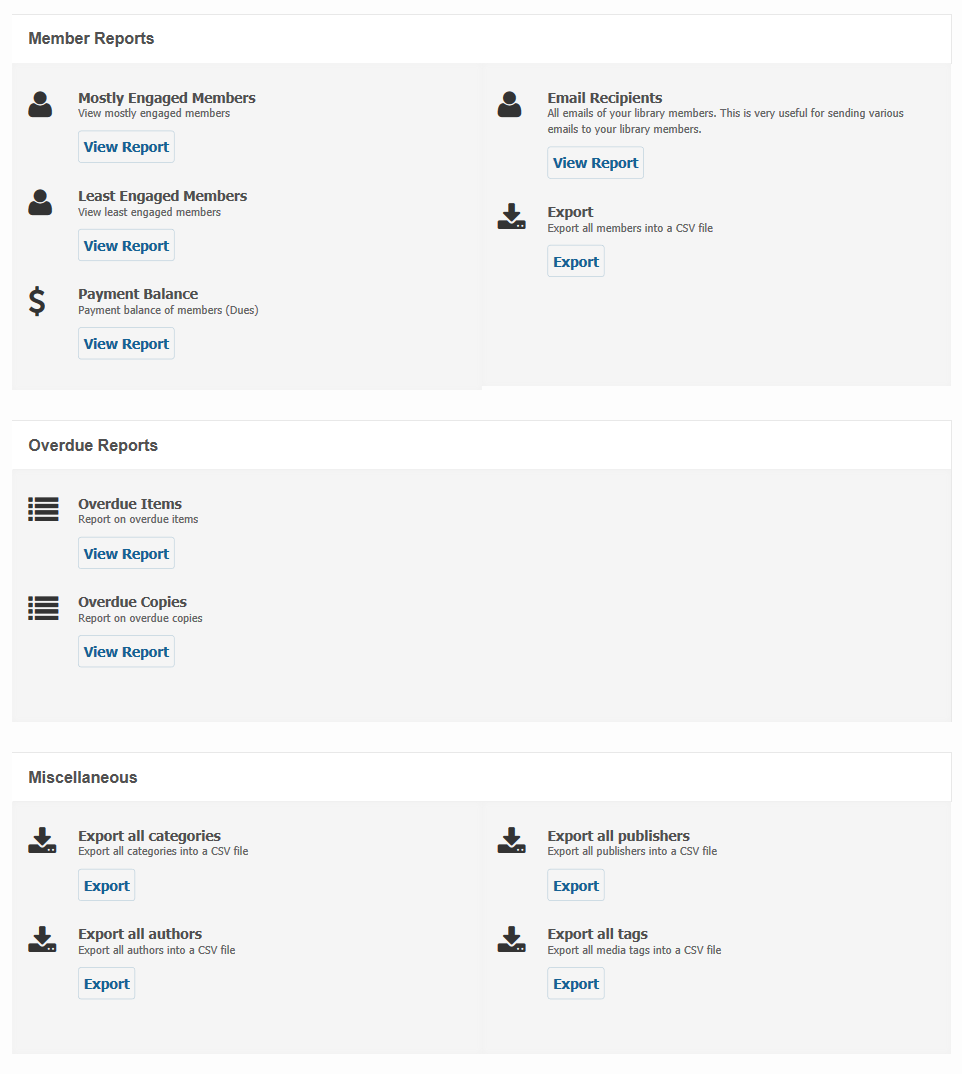
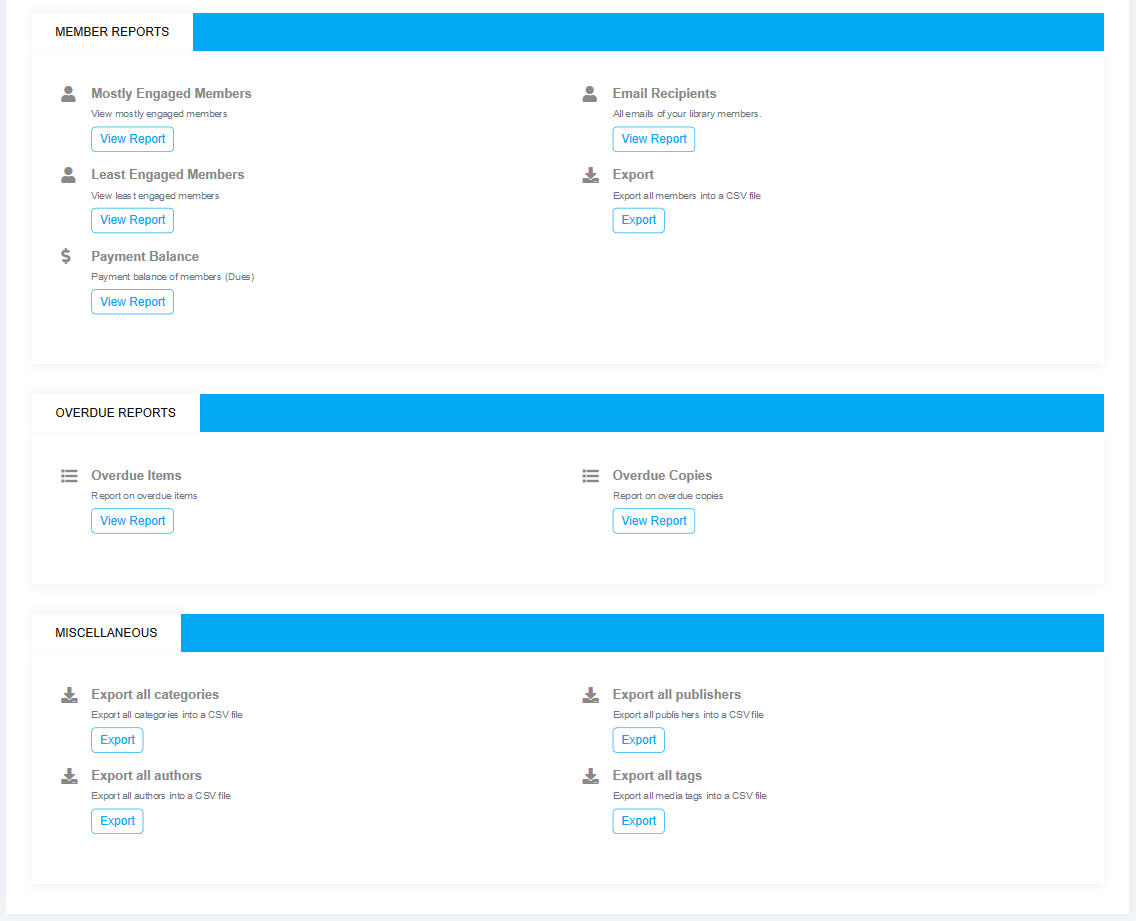
Modify the reports md file for new dashboard UI

Changed region(s): [[0.0312, 0.0, 0.9979, 0.3344], [0.0312, 0.6688, 0.9979, 0.9425], [0.0312, 0.3952, 0.9979, 0.6384]]

diff --git a/docs/reports.md b/docs/reports.md
@@ -8,45 +8,45 @@ To access this section, please follow the below steps:
 * Click on the `Reports` menu.
 * Reports page will be appeared like below.
 
-	![Reports main page](img/reports_main_page.png)
+	![Reports main page](img/reports_main_page1.png)
 	![Reports main page](img/reports_main_page2.png)
 
 ## Catalog Reports
 
-Catalog Reports are based on your library catalog items and their related copies.
+Catalog Reports are mainly based on your library catalog items and their related copies.
 
 * At the beginning of reports section you can see the catalog reports like below.
 
-	![Catalog Reports main page](img/reports_catalog_main_page.png)
+	![Catalog reports](img/reports_on_catalog.png)
 
 * At first you can view the report of `Summary` on your catalog items. 
-* if you click on the view report button below the summary heading then an item summary page will appear like below.
+* If you click on the view report button below the summary heading then an item summary page will appear like below.
 
-	![Catalog Reports summary page](img/reports_catalog_summary_page.png)
+	![Catalog reports summary](img/reports_on_catalog_summary.png)
 
 * Now you can view how many items are resides under each branch. Also you can print them out if you need.
-* Next if you click on the view report button below the `Catalog Items` heading then the catalog items page will appear.
+* Next if you click on the view report button below the `Catalog Items` heading then the catalog items page will appear as shown below.
 
-	![Catalog Reports catalog items page](img/reports_catalog_items_page.png)
+	![Catalog Reports on catalog items](img/reports_on_catalog_items.png)
 
 * If you click on the `Filter Options` on the top right corner of this page then you can find several filtering options for your catalog items.
 
-	![Catalog Reports catalog items filter option](img/reports_catitems_filter_option.png)
+	![Catalog Reports filter options](img/reports_on_catalog_filter_options.png)
 
 * Now you can enter any fields from which you want to filter and click on the `Filter` button once you are done.
 * Next if you click on the `All Copies` view report button then you can view all the copies of your library catalog items.
 
-	![Catalog Reports catalog items all copies](img/reports_catalog_items_all_copies.png)
+	![Catalog Reports on all copies](img/reports_on_catalog_all_copies.png)
 
 * Also you can view all the copies in a particular date range like below.
 
-	![Catalog Reports catalog items date range](img/reports_catalog-items_date_range.png)
+	![Catalog Reports catalog by date range](img/reports_on_catalog_by_date_range.png)
 
 * Next you can view reports only for the newly arrived copies under each item from `New Copies` view report. Also you can view this within a date range.
 * Then you can view all the copies by their location from `Copies By Location` view report.
 * Next report is only for those copies which have been booked. If you click on the `Booked Copies` view report then you can view all the booked copies of your library catalog items.
 * Next you can export all the titles in CSV format if you click on the Export button below the `Export all titles` heading.
-* And finally you can export all the copies in CSV format if you click on the Export button below the `Export all copies` heading. 
+* Finally you can export all the copies in CSV format if you click on the Export button below the `Export all copies` heading. 
 
 
 ## Circulation Reports
@@ -55,23 +55,23 @@ Circulation Reports are mainly based on those items and copies which have been c
 
 * If you scroll down the reports section then the next reports you can view is on circulation.
 
-	![Circulation Reports main page](img/reports_circulation_main_page.png)
+	![Circulation Reports main page](img/reports_on_circulation.png)
 
 * At first you can see the circulation report on those items which have highest number of checkouts. To view this please click on the view report button below the `Mostly Issued Items` heading.
 
-	![Circulation Reports mostly issued items](img/reports_circulation_mostly_issued_items.png)
+	![Circulation Reports on mostly issued items](img/reports_on_mostly_issued_items.png)
 
 * Also you can filter all the mostly issued items by clicking on `Advance Options` button.
 	![Circulation Reports filter options](img/reports_circulation_filter_options.png)
 
 * Next you can see the circulation report on those items which have lowest number of checkouts. To view this please click on the view report button below the `Least Circulated Items` heading.
 
-	![Circulation Reports least circulated items](img/reports_least_circulated_items.png)
+	![Circulation Reports on least circulated items](img/reports_on_least_circulated_items.png)
 
 * Next one is the `Advance Report` where you can find more advance functionality for filtering your circulations.
-* If you click on the `Filter Options` on the top right corner of the circulations report page then several filtering options will appear like below.
+* If you click on the `Filter Options` on the top right corner of the advance report page then several filtering options will appear like below.
 
-	![Circulation Reports advance circulation report](img/reports_advance_circulation_report.png)
+	![Circulation Reports on advance circulation](img/reports_on_advance_circulation.png)
 	
 * Next the report is on those copies which have highest number of checkouts. You can view this by clicking on the view report button below the `Mostly Issued Copies` heading.
 * Finally the `Least Circulated Copies` from which you can view report on those copies which have lowest number of checkouts.
@@ -82,11 +82,11 @@ Member Reports are solely designated for all the members of your library.
 
 * After the circulation reports you can view the reports on member.
 
-	![Member Reports main page](img/report_member_main_page.png)
+	![Member Reports main page](img/reports_on_member.png)
 
 * At first you can view the reports on those members who are engaged mostly in your library activities. To view this please click on the view button below `Mostly Engaged Members` heading. Also you can filter this report if you click on the `Filter Options` on the top right corner of this page.
 
-	![Member Reports filter options](img/report_member_filter_options.png)
+	![Member Reports filtering options](img/reports_on_member_filtering_options.png)
  
 * Next you can view report on those members who are not much engaged in your library activities. Also you can use different filtering options like before.
 * Then the next one is the `Payment Balance` report which is based on only for those members whose payment balance are dues.
@@ -99,11 +99,11 @@ Overdue Reports are based on the overdue items and copies of your library catalo
 
 * When you scrolling down the reports section you can view this reports after the member reports.
 
-	![Overdue Reports main page](img/report_overdue_main_page.png)
+	![Overdue Reports main page](img/reports_on_overdue.png)
 
 * At first you can view the report on overdue items if you click on the view report button below `Overdue Items` heading. You can also filter all your overdue items from the `Advance Options` button on the top right corner of this page.
 
-	![Overdue Reports advance options](img/report_overdue_advance_options.png)
+	![Overdue Reports filtering options](img/reports_on_overdue_filtering_options.png)
 
 * Then the next report is on the `Overdue Copies` of your library catalog items.
 
@@ -114,4 +114,4 @@ Miscellaneous reports are consisting of various types of listing such as categor
 
 * At the end of reports section you can export all the miscellaneous reports to keep backup of your records.
 
-	![Miscellaneous Reports](img/report_miscellaneous.png)
+	![Miscellaneous Reports](img/reports_miscellaneous.png)
